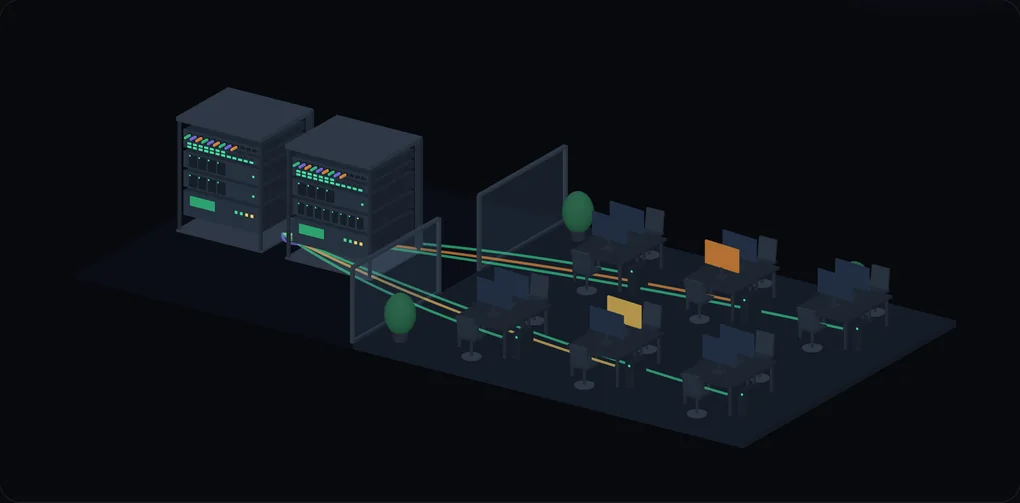
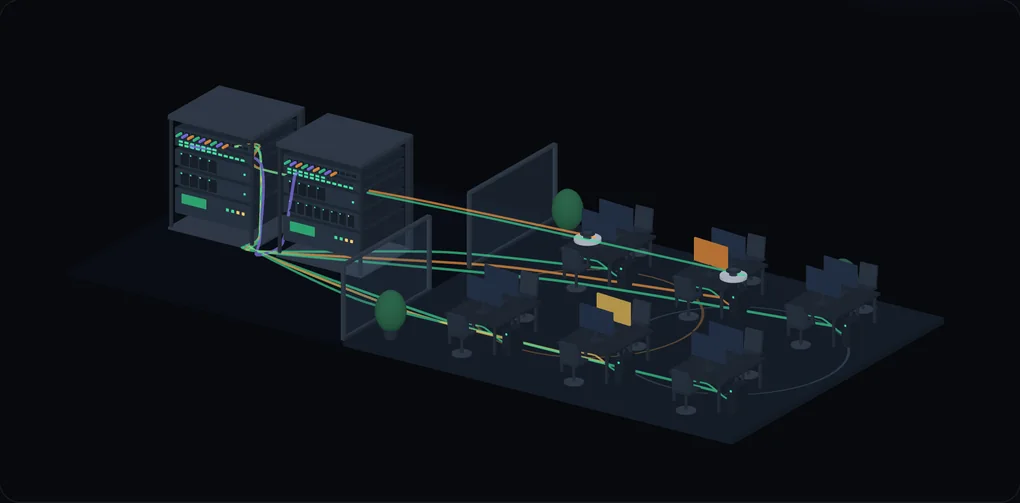
feat(jumeau): branche les câbles sur de vrais ports et ajoute les bornes Wi-Fi
Les liaisons partaient du flanc de la baie, à un endroit où il n'y a
aucun port, et arrivaient à côté des machines. Elles partent maintenant
de la face avant du panneau de brassage, descendent par le passe-fils
latéral, sortent au sol et rejoignent le boîtier de l'îlot ; un dernier
segment relie le boîtier à chaque tour. Le lien entre baies va de cœur
à cœur, pas de flanc à flanc.

La position d'arrivée tenait en coordonnées absolues alors que les
postes d'un bench tournent de 180° : un poste sur deux était donc
branché dans le vide. Elle tourne maintenant avec le poste.

Bornes Wi-Fi : deux par étage, fixées au plafond, alimentées en PoE par
un câble qui monte le long du même passe-fils puis court sous le
plafond. Leur portée est tracée au sol par un anneau discret — en gris
acier par défaut, aux couleurs de la sévérité quand un constat porte
sur la borne, comme pour les écrans. L'anneau fait cinq mètres de
rayon, donc il est retiré du calcul de visée : sinon survoler n'importe
quel bureau sélectionnait la borne.

Les constats Wi-Fi sont du même registre que le reste : SSID invité
diffusé sans VLAN dédié ni isolation client, clé WPA2 partagée qui ne
se révoque pas, micrologiciel de borne resté trois ans en arrière.

Claude-Session: https://claude.ai/code/session_01NNNcS711C8DjVqSTKnaWUZ

diff --git a/sentinelscope/components/jumeau/scene.ts b/sentinelscope/components/jumeau/scene.ts
@@ -11,7 +11,7 @@
  * rien à télécharger au chargement de la page.
  */
 import * as THREE from "three";
-import { SITE, type Equipement, type Poste, type Severite } from "./donnees";
+import { SITE, type Borne, type Equipement, type Poste, type Severite } from "./donnees";
 
 export type Fiche = {
   kind: string; name: string; pos: string;
@@ -78,7 +78,12 @@ export function demarrer(hote: HTMLElement, cb: Rappels): Pilote {
     return new THREE.Mesh(geo(new THREE.BoxGeometry(w, h, d)), m);
   };
 
-  type Cible = THREE.Object3D & { userData: { data?: Fiche; halo?: THREE.Mesh; baie?: { nom: string }; haloB?: THREE.Mesh; hauteur?: number } };
+  type Cible = THREE.Object3D & {
+  userData: {
+    data?: Fiche; halo?: THREE.Mesh; baie?: { nom: string }; haloB?: THREE.Mesh;
+    hauteur?: number; brassage?: THREE.Vector3; coeur?: THREE.Vector3; cote?: THREE.Vector3;
+  };
+};
   let racine: THREE.Group | null = null;
   let cliquables: Cible[] = [];
   let baieFocus: Cible | null = null;
@@ -98,6 +103,7 @@ export function demarrer(hote: HTMLElement, cb: Rappels): Pilote {
 
     // L'onduleur est en bas, le panneau de brassage en haut : c'est l'ordre
     // d'une baie réelle, et il se lit au premier coup d'œil.
+    const prises: { brassage?: THREE.Vector3; coeur?: THREE.Vector3 } = {};
     let y = 0.75;
     [...baie.devices].reverse().forEach((d: Equipement) => {
       const h = d.u * U;
@@ -138,6 +144,15 @@ export function demarrer(hote: HTMLElement, cb: Rappels): Pilote {
         }
       }
 
+      // On retient où brancher : la face avant du panneau de brassage pour
+      // le capillaire, celle du commutateur de cœur pour les liens entre
+      // baies. Sans ça, les câbles repartent du flanc de la baie — un
+      // endroit où il n'y a aucun port.
+      if (d.kind === "Panneau de brassage" && !prises.brassage)
+        prises.brassage = new THREE.Vector3(baie.x + LARG * 0.3, gd.position.y, baie.z + PROF / 2 + 0.12);
+      if (d.kind === "Commutateur" && !prises.coeur)
+        prises.coeur = new THREE.Vector3(baie.x - LARG * 0.3, gd.position.y, baie.z + PROF / 2 + 0.12);
+
       const sev = d.vulns.length ? d.vulns[0].sev : null;
       const halo = HALO(LARG + 0.3, h + 0.16, PROF + 0.3, SEV(sev));
       halo.visible = false;
@@ -151,7 +166,14 @@ export function demarrer(hote: HTMLElement, cb: Rappels): Pilote {
     haloB.position.y = H / 2;
     haloB.visible = false;
     g.add(haloB);
-    (g as Cible).userData = { baie, haloB, hauteur: H };
+    (g as Cible).userData = {
+      baie, haloB, hauteur: H,
+      // Le chemin de câbles descend par le côté de la baie, comme un
+      // passe-fils vertical, pas en travers des faces avant.
+      brassage: prises.brassage ?? new THREE.Vector3(baie.x, 3, baie.z + PROF / 2),
+      coeur: prises.coeur ?? prises.brassage ?? new THREE.Vector3(baie.x, 3, baie.z + PROF / 2),
+      cote: new THREE.Vector3(baie.x + LARG / 2 + 0.3, 0, baie.z + PROF / 2 - 0.25),
+    };
     return g as Cible;
   }
 
@@ -194,6 +216,58 @@ export function demarrer(hote: HTMLElement, cb: Rappels): Pilote {
     return g;
   }
 
+  // Une borne Wi-Fi est au plafond, pas sur un bureau : disque plat, tige de
+  // fixation, et sa zone de couverture posée au sol. Le câble PoE repart du
+  // même panneau de brassage que le reste, mais passe par le haut.
+  const PLAFOND = 3.9;
+  function construireBorne(bo: Borne, baie: Cible) {
+    const g = new THREE.Group() as Cible;
+    g.position.set(bo.x, 0, bo.z);
+    const y = PLAFOND - 0.28;
+    const corps = new THREE.Mesh(geo(new THREE.CylinderGeometry(0.62, 0.62, 0.14, 20)), M(0xc3ccd6));
+    corps.position.y = y; g.add(corps);
+    g.add(P(new THREE.Mesh(geo(new THREE.CylinderGeometry(0.2, 0.2, 0.26, 10)), M(C.acierC)), 0, y + 0.2, 0));
+    g.add(P(new THREE.Mesh(geo(new THREE.CylinderGeometry(0.34, 0.34, 0.05, 14)), M(C.acier)), 0, PLAFOND, 0));
+    g.add(P(B(0.1, 0.05, 0.1, 0x000000, bo.sev ? C[bo.sev] : C.low, 1.3), 0.3, y - 0.07, 0.3));
+
+    // La couverture : un disque à peine marqué, pas un projecteur. Il dit
+    // « ça porte jusque-là », il ne doit pas éclairer le plateau.
+    const zone = new THREE.Mesh(
+      geo(new THREE.RingGeometry(bo.portee - 0.12, bo.portee, 48)),
+      (() => { const m = new THREE.MeshBasicMaterial({
+        // Même règle que pour les écrans : la couleur ne qualifie qu'un
+        // constat. Une borne saine trace sa portée en gris acier.
+        color: bo.sev ? C[bo.sev] : 0x5e7a9b, transparent: true, opacity: 0.3, side: THREE.DoubleSide });
+        jetables.push(m); return m; })()
+    );
+    zone.rotation.x = -Math.PI / 2; zone.position.y = 0.04;
+    // Le disque de couverture fait sept mètres de rayon : s'il reste
+    // sensible au pointeur, survoler n'importe quel bureau sélectionne la
+    // borne. On le retire du calcul de visée.
+    zone.raycast = () => {};
+    g.add(zone);
+
+    // Le PoE monte le long du passe-fils puis court sous le plafond.
+    const c = baie.userData.cote!, b = baie.userData.brassage!;
+    racine!.add(chemin([
+      V(b.x, b.y, b.z),
+      V(c.x, b.y + 0.2, c.z),
+      V(c.x, PLAFOND - 0.12, c.z),
+      V((c.x + bo.x) / 2, PLAFOND - 0.06, (c.z + bo.z) / 2),
+      V(bo.x, PLAFOND - 0.1, bo.z),
+      V(bo.x, y + 0.14, bo.z),
+    ], bo.sev ? C[bo.sev] : C.low, 0.05));
+
+    const halo = HALO(1.7, 0.5, 1.7, SEV(bo.sev));
+    halo.position.y = y; halo.visible = false; g.add(halo);
+    g.userData = {
+      data: { kind: "Borne Wi-Fi", name: bo.nom, pos: "plafond · open space", kv: bo.kv, vulns: bo.vulns },
+      halo,
+    };
+    cliquables.push(g);
+    return g;
+  }
+
   function construirePoste(p: Poste) {
     const g = new THREE.Group() as Cible;
     g.position.set(p.x, 0, p.z);
@@ -231,18 +305,30 @@ export function demarrer(hote: HTMLElement, cb: Rappels): Pilote {
     return g;
   }
 
-  // Le câblage court au sol, pas en l'air : une courbe plate qui contourne
-  // légèrement, comme une goulotte. Une courbe qui s'envole traverse les
-  // cloisons et les bureaux, et ne ressemble à rien de réel.
-  function cable(a: THREE.Vector3, b: THREE.Vector3, couleur: number) {
-    const y = 0.16;
-    const A = new THREE.Vector3(a.x, y, a.z), Z = new THREE.Vector3(b.x, y, b.z);
-    const mil = A.clone().add(Z).multiplyScalar(0.5);
-    mil.z += (Z.z >= A.z ? 1 : -1) * 1.4;
-    const courbe = new THREE.QuadraticBezierCurve3(A, mil, Z);
-    const m = new THREE.MeshBasicMaterial({ color: couleur, transparent: true, opacity: 0.62 });
+  // Un câble part d'un port et arrive sur un port. Il descend par le
+  // passe-fils latéral de la baie, court au sol jusqu'au boîtier de l'îlot,
+  // et remonte là où il doit. Une courbe qui relie deux points au hasard en
+  // s'envolant traverse les cloisons et ne branche rien.
+  function chemin(points: THREE.Vector3[], couleur: number, rayon = 0.055) {
+    const courbe = new THREE.CatmullRomCurve3(points, false, "catmullrom", 0.35);
+    const m = new THREE.MeshBasicMaterial({ color: couleur, transparent: true, opacity: 0.66 });
     jetables.push(m);
-    return new THREE.Mesh(geo(new THREE.TubeGeometry(courbe, 26, 0.062, 6, false)), m);
+    return new THREE.Mesh(geo(new THREE.TubeGeometry(courbe, points.length * 16, rayon, 6, false)), m);
+  }
+  const V = (x: number, y: number, z: number) => new THREE.Vector3(x, y, z);
+
+  // Le capillaire : panneau de brassage → passe-fils → sol → boîtier d'îlot.
+  function depuisBrassage(baie: Cible, vers: THREE.Vector3, couleur: number) {
+    const b = baie.userData.brassage!, c = baie.userData.cote!;
+    const sortie = V(c.x + 0.35, 0.16, c.z + 0.8);
+    return chemin([
+      V(b.x, b.y, b.z),
+      V(c.x, b.y - 0.12, c.z),
+      V(c.x, 0.5, c.z),
+      sortie,
+      V((sortie.x + vers.x) / 2, 0.16, (sortie.z + vers.z) / 2 + (vers.z >= sortie.z ? 1.1 : -1.1)),
+      vers,
+    ], couleur);
   }
 
   /* ---------- l'étage ---------- */
@@ -281,15 +367,43 @@ export function demarrer(hote: HTMLElement, cb: Rappels): Pilote {
     const dep = baies[0];
     ilots.forEach((e) => {
       const ix = e.x / e.n, iz = e.z / e.n;
+      const boitier = V(ix, 0.16, iz);
       racine!.add(P(B(0.55, 0.1, 0.55, 0x1b242f), ix, 0.06, iz));
-      racine!.add(cable(new THREE.Vector3(dep.position.x + LARG / 2, 0.16, dep.position.z),
-        new THREE.Vector3(ix, 0.16, iz), SEV(e.sev) === C.acc ? C.low : SEV(e.sev)));
+      racine!.add(depuisBrassage(dep, boitier, e.sev ? C[e.sev] : C.low));
     });
+    // Du boîtier de sol au poste : le dernier mètre, celui qu'on voit sous
+    // les bureaux. Sans lui, les machines ne sont reliées à rien.
+    et.postes.forEach((p) => {
+      const e = ilots.get(p.ilot);
+      if (!e) return;
+      const ix = e.x / e.n, iz = e.z / e.n;
+      // La tour est posée en local à (1.7, 0) ; le poste tourne autour de Y,
+      // donc le point d'arrivée tourne avec lui. Le prendre en coordonnées
+      // absolues branchait la moitié des postes dans le vide.
+      const r = p.rot || 0;
+      const tx = p.x + 1.7 * Math.cos(r), tz = p.z - 1.7 * Math.sin(r);
+      racine!.add(chemin([
+        V(ix, 0.16, iz),
+        V((ix + tx) / 2, 0.16, (iz + tz) / 2),
+        V(tx, 0.16, tz + (tz >= iz ? -0.5 : 0.5)),
+        V(tx, 0.42, tz + (tz >= iz ? -0.3 : 0.3)),
+      ], p.sev ? C[p.sev] : C.low, 0.042));
+    });
+    // Entre baies : un lien de cœur à cœur, pas de flanc à flanc.
     for (let i = 1; i < baies.length; i++) {
-      racine.add(cable(
-        new THREE.Vector3(baies[i - 1].position.x + LARG / 2, 0.16, baies[i - 1].position.z),
-        new THREE.Vector3(baies[i].position.x - LARG / 2, 0.16, baies[i].position.z), C.acc));
+      const a = baies[i - 1], b = baies[i];
+      racine.add(chemin([
+        V(a.userData.coeur!.x, a.userData.coeur!.y, a.userData.coeur!.z),
+        V(a.userData.cote!.x, a.userData.coeur!.y - 0.1, a.userData.cote!.z),
+        V(a.userData.cote!.x, 0.45, a.userData.cote!.z),
+        V((a.position.x + b.position.x) / 2, 0.16, a.position.z + PROF / 2 + 0.9),
+        V(b.userData.cote!.x - LARG - 0.6, 0.45, b.userData.cote!.z),
+        V(b.userData.coeur!.x, b.userData.coeur!.y - 0.1, b.userData.coeur!.z + 0.3),
+        V(b.userData.coeur!.x, b.userData.coeur!.y, b.userData.coeur!.z),
+      ], C.acc, 0.07));
     }
+    // Les bornes : alimentées en PoE par le même capillaire, mais au plafond.
+    et.bornes.forEach((bo) => contenu.add(construireBorne(bo, dep)));
     // Un peu de vert : un plateau vide ne ressemble à aucun bureau réel.
     et.zones.filter((z) => z.nom === "Open space").forEach((z) => {
       ([[z.x1 + 1.6, z.z1 + 1.4], [z.x1 + 1.6, z.z2 - 1.4], [z.x2 - 4.5, z.z1 + 1.4]] as const)

diff --git a/sentinelscope/components/jumeau/donnees.ts b/sentinelscope/components/jumeau/donnees.ts
@@ -25,13 +25,17 @@ export type Poste = {
   id: string; nom: string; ilot: string; x: number; z: number; rot: number;
   sev: Severite | null; kv: [string, string][]; vulns: Constat[];
 };
+export type Borne = {
+  id: string; nom: string; x: number; z: number; portee: number;
+  sev: Severite | null; kv: [string, string][]; vulns: Constat[];
+};
 export type Zone = {
   nom: string; x1: number; x2: number; z1: number; z2: number; teinte: number;
 };
 export type Etage = {
   id: string; num: string; nom: string; sous: string; pire: Severite;
   zones: Zone[]; cloison: { x: number; z1: number; z2: number; porte: [number, number] };
-  baies: Baie[]; postes: Poste[];
+  baies: Baie[]; postes: Poste[]; bornes: Borne[];
 };
 export type Site = { nom: string; etages: Etage[] };
 
@@ -123,6 +127,20 @@ export const SITE: Site = { nom: 'Site de Nanterre', etages:[
     ...ILOT('Îlot 6', 20.6, 4.6,
       PC('p11','Poste commercial 11','10.14.0.101','Catalyst 9300 · Gi1/0/15'),
       PC('p12','Poste commercial 12','10.14.0.102','Catalyst 9300 · Gi1/0/16')),
+  ],
+  bornes:[
+    { id:'ap01', nom:'Borne Wi-Fi · accueil', x:10.6, z:0, portee:5.2, sev:'high',
+      kv:[['Modèle','Aruba AP-515'],['Adresse','10.14.0.71'],
+          ['Connecté sur','Catalyst 9300 · Gi1/0/20 · PoE+'],
+          ['SSID','NANTERRE-CORP · NANTERRE-INVITE'],['Chiffrement','WPA2-PSK']],
+      vulns:[{ id:'SSID invité', sev:'high', score:'',
+        txt:"Le réseau invité est diffusé par la même borne que le réseau interne, sans VLAN dédié ni isolation client. Un visiteur connecté au Wi-Fi invité atteint le même réseau que les serveurs." },
+             { id:'WPA2-PSK', sev:'med', score:'',
+        txt:"Clé partagée unique pour tout le personnel : elle ne se révoque pas au départ d'un salarié et se recopie d'un téléphone à l'autre. WPA2-Entreprise (802.1X) lie l'accès au compte." }] },
+    { id:'ap02', nom:'Borne Wi-Fi · fond de plateau', x:18.4, z:0, portee:5.2, sev:null,
+      kv:[['Modèle','Aruba AP-515'],['Adresse','10.14.0.72'],
+          ['Connecté sur','Catalyst 9300 · Gi1/0/21 · PoE+'],
+          ['SSID','NANTERRE-CORP'],['Chiffrement','WPA2-Entreprise · 802.1X']], vulns:[] },
   ]},
 
 { id:'e1', num:'R+1', nom:'Étage 1', sous:'Local de brassage · plateau administratif', pire:'high',
@@ -171,5 +189,17 @@ export const SITE: Site = { nom: 'Site de Nanterre', etages:[
           ['Connecté sur','Aruba 2530-8G · port 4'],['État','micrologiciel ancien']],
       vulns:[{ id:'Micrologiciel', sev:'med', score:'',
         txt:"Micrologiciel d'imprimante non mis à jour depuis la mise en service. Les multifonctions exposent souvent une interface web et un service d'impression accessibles sans authentification." }] },
+  ],
+  bornes:[
+    { id:'ap11', nom:'Borne Wi-Fi · plateau nord', x:9.6, z:0, portee:5.0, sev:'med',
+      kv:[['Modèle','Cisco Catalyst 9115AX'],['Adresse','10.14.1.71'],
+          ['Connecté sur','Aruba 2530-8G · port 7 · PoE+'],
+          ['SSID','NANTERRE-CORP'],['Micrologiciel','17.3.4 · 3 ans']],
+      vulns:[{ id:'Micrologiciel', sev:'med', score:'',
+        txt:"Borne restée sur une version de 2021 alors que la branche 17.9 est publiée. Les correctifs Wi-Fi des trois dernières années ne sont pas appliqués." }] },
+    { id:'ap12', nom:'Borne Wi-Fi · plateau sud', x:17.2, z:0, portee:5.0, sev:null,
+      kv:[['Modèle','Cisco Catalyst 9115AX'],['Adresse','10.14.1.72'],
+          ['Connecté sur','Aruba 2530-8G · port 8 · PoE+'],
+          ['SSID','NANTERRE-CORP'],['Micrologiciel','17.9.5 · à jour']], vulns:[] },
   ]},
 ] };

diff --git a/sentinelscope/components/jumeau/Jumeau.tsx b/sentinelscope/components/jumeau/Jumeau.tsx
@@ -171,7 +171,8 @@ export default function Jumeau() {
             <span className="hidden sm:block">
               <span className="block text-[13px] font-semibold">{e.nom}</span>
               <span className="block text-[11px] text-muted">
-                {e.baies.length} baie{e.baies.length > 1 ? "s" : ""} · {e.postes.length} postes
+                {e.baies.length} baie{e.baies.length > 1 ? "s" : ""} · {e.postes.length} postes ·{" "}
+                {e.bornes.length} bornes
               </span>
             </span>
             <span className="h-2 w-2 flex-none rounded-full" style={{ background: SEV_COULEUR[e.pire] }} />
@@ -191,7 +192,7 @@ export default function Jumeau() {
 
       {/* ----- fiche d'équipement ----- */}
       {fiche && (
-        <div className="absolute inset-x-3 bottom-3 max-h-[70%] overflow-y-auto rounded-2xl border border-line bg-bg2/95 p-4 backdrop-blur sm:inset-x-auto sm:bottom-auto sm:right-6 sm:top-1/2 sm:w-[370px] sm:-translate-y-1/2 sm:p-5">
+        <div className="absolute inset-x-3 bottom-3 max-h-[70%] overflow-y-auto overscroll-contain rounded-2xl border border-line bg-bg2/95 p-4 backdrop-blur sm:inset-x-auto sm:bottom-auto sm:right-6 sm:top-1/2 sm:max-h-[calc(100%-3rem)] sm:w-[370px] sm:-translate-y-1/2 sm:p-5">
           <button
             type="button"
             onClick={() => setFiche(null)}
